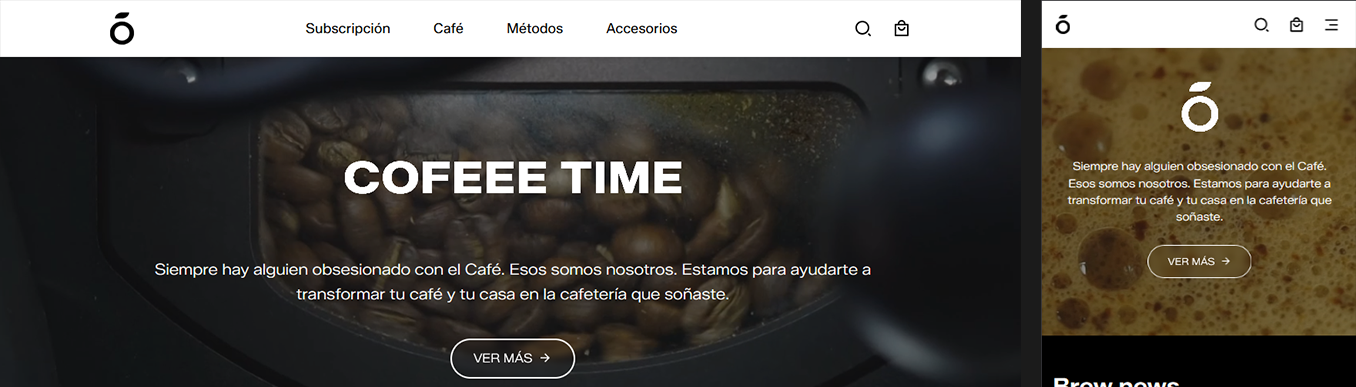
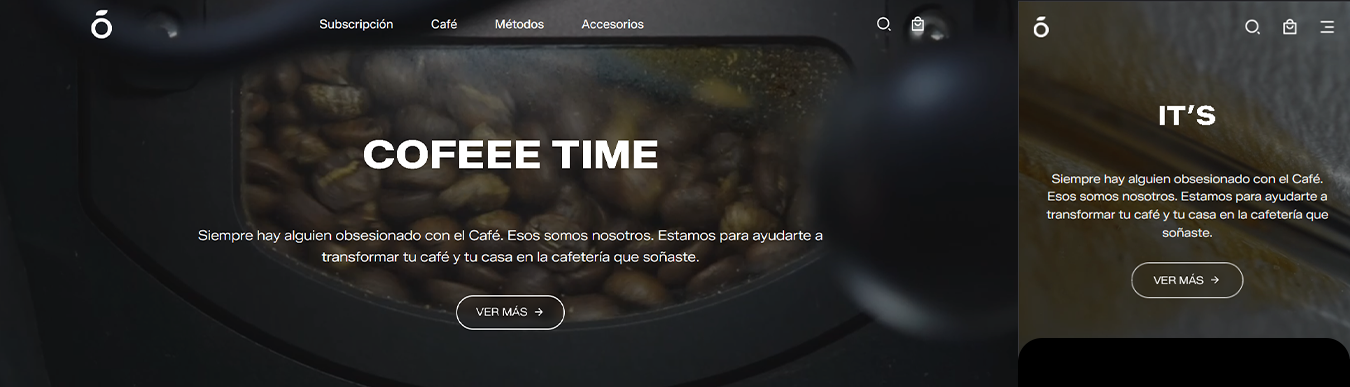
animacion navbar transparente

diff --git a/src/components/layout/Navbar.jsx b/src/components/layout/Navbar.jsx
@@ -1,6 +1,7 @@
 import React, { useState, useEffect } from 'react'
 import { Link } from 'react-router-dom'
-import logo from '../../assets/img/kohi_bl.png'
+import logoBlack from '../../assets/img/kohi_bl.png'
+import logoWhite from '../../assets/img/kohi_wt.png'
 import search_icon from '../../assets/icon/search-2-line.svg'
 import cart_icon from '../../assets/icon/shopping-bag-4-line.svg'
 import menu_icon from '../../assets/icon/menu-3-fill.svg'
@@ -10,6 +11,11 @@ function Navbar() {
 	// sheetType: null | 'menu' | 'search'
 	const [sheetType, setSheetType] = useState(null)
 	const [searchQuery, setSearchQuery] = useState('')
+	// estado: en el tope superior para navbar transparente
+	const [atTop, setAtTop] = useState(true)
+	const [isDesktop, setIsDesktop] = useState(
+		typeof window !== 'undefined' ? window.innerWidth >= 767 : false
+	)
 
 	// items de navegacion (desktop)
 	const navLinks = [
@@ -42,6 +48,29 @@ function Navbar() {
 			document.body.style.overflow = ''
 		}
 	}, [sheetType])
+
+	// detecta el scroll para alternar navbar transparente/solida (mobile y desktop)
+	useEffect(() => {
+		const onScroll = () => {
+			if (typeof window === 'undefined') return
+			const top = window.scrollY <= 2
+			setAtTop(top)
+		}
+		onScroll()
+		window.addEventListener('scroll', onScroll, { passive: true })
+		return () => window.removeEventListener('scroll', onScroll)
+	}, [])
+
+	// detectar cambios de tamano para saber si es desktop o mobile
+	useEffect(() => {
+		const onResize = () => {
+			if (typeof window === 'undefined') return
+			setIsDesktop(window.innerWidth >= 767)
+		}
+		onResize()
+		window.addEventListener('resize', onResize, { passive: true })
+		return () => window.removeEventListener('resize', onResize)
+	}, [])
 
 	// auto-focus en desktop cuando se abre el panel de busqueda
 	useEffect(() => {
@@ -97,11 +126,29 @@ function Navbar() {
 
 	return (
 		<>
-			<nav className={`nav-mobile ${sheetType === 'search' ? 'nav-no-shadow' : ''}`}>
+			<nav className={`nav-mobile ${sheetType === 'search' ? 'nav-no-shadow' : ''} ${atTop && (!isDesktop || sheetType !== 'search') ? 'nav-transparent' : ''}`}>
+				{(() => {
+					// mismo criterio para mantener sincronizado el intercambio de logo
+					return null
+				})()}
 				<div className="nav-left">
-					<Link to="/" className="nav-logo">
-						<img src={logo} alt="Kohi" />
-					</Link>
+					{(() => {
+						const isTransparent = atTop && (!isDesktop || sheetType !== 'search')
+						return (
+							<Link to="/" className="nav-logo">
+								<img
+									className={`logo logo-black ${isTransparent ? 'hide' : 'show'}`}
+									src={logoBlack}
+									alt="Kohi"
+								/>
+								<img
+									className={`logo logo-white ${isTransparent ? 'show' : 'hide'}`}
+									src={logoWhite}
+									alt="Kohi"
+								/>
+							</Link>
+						)
+					})()}
 				</div>
 
 				{/* items desktop/tablet navbar */}

diff --git a/src/css/App.css b/src/css/App.css
@@ -16,14 +16,39 @@
   box-sizing: border-box;
   background: var(--navbar-bg);
   box-shadow: var(--navbar-shadow);
+  transition: background 300ms ease, background-color 300ms ease, color 300ms ease, box-shadow 300ms ease;
 }
 .nav-no-shadow { box-shadow: none !important; }
 
-.nav-left .nav-logo img {
+/* estado transparente al estar en el tope superior) */
+.nav-mobile.nav-transparent {
+  background: transparent;
+  box-shadow: none;
+}
+.nav-mobile.nav-transparent .icon-btn img { filter: invert(1); }
+
+/* cuando no es transparente: vuelve al solido */
+.nav-mobile:not(.nav-transparent) {
+  background: var(--navbar-bg);
+  box-shadow: var(--navbar-shadow);
+}
+
+.nav-left .nav-logo {
+  position: relative;
+  display: block;
   height: var(--logo-height-mobile);
+}
+.nav-left .nav-logo img {
+  position: absolute;
+  top: 0;
+  left: 0;
+  height: 100%;
   width: auto;
   display: block;
+  transition: opacity 300ms ease;
 }
+.nav-left .nav-logo .logo.show { opacity: 1; }
+.nav-left .nav-logo .logo.hide { opacity: 0; }
 
 /* Items escondidos en mobile */
 .nav-items {
@@ -427,10 +452,23 @@
   
   .nav-mobile { 
     padding: var(--navbar-padding-desktop); 
+    background: var(--navbar-bg);
+  }
+
+  /* estado transparente en tope superior */
+  .nav-mobile.nav-transparent {
+    background: transparent;
+    box-shadow: none;
   }
 
   .nav-left .nav-logo img { 
+    position: absolute;
+    top: 0;
+    left: 0;
     height: var(--logo-height-desktop); 
+  }
+  .nav-left .nav-logo { 
+    height: var(--logo-height-desktop);
   }
 
   .nav-items { 
@@ -458,6 +496,26 @@
     background: var(--accent-bg); 
     color: var(--accent-text); 
   }
+
+  /* cuando navbar es transparente: links blancos y hover igual negro */
+  .nav-mobile.nav-transparent .nav-items a {
+    color: var(--text-primary-color-light); 
+  }
+
+  .nav-mobile.nav-transparent .icon-btn img { 
+    filter: invert(1); 
+  }
+
+  /* al abrir busqueda en desktop, el navbar solido e iconos negros */
+  .nav-mobile.nav-no-shadow { 
+    background: var(--navbar-bg); 
+  }
+
+  .nav-mobile.nav-no-shadow .nav-items a { 
+    color: var(--text-link-color); 
+  }
+  
+  .nav-mobile.nav-no-shadow .icon-btn img { filter: invert(0); }
 
   /* desktop search overlay */
   .search-desktop-backdrop {
